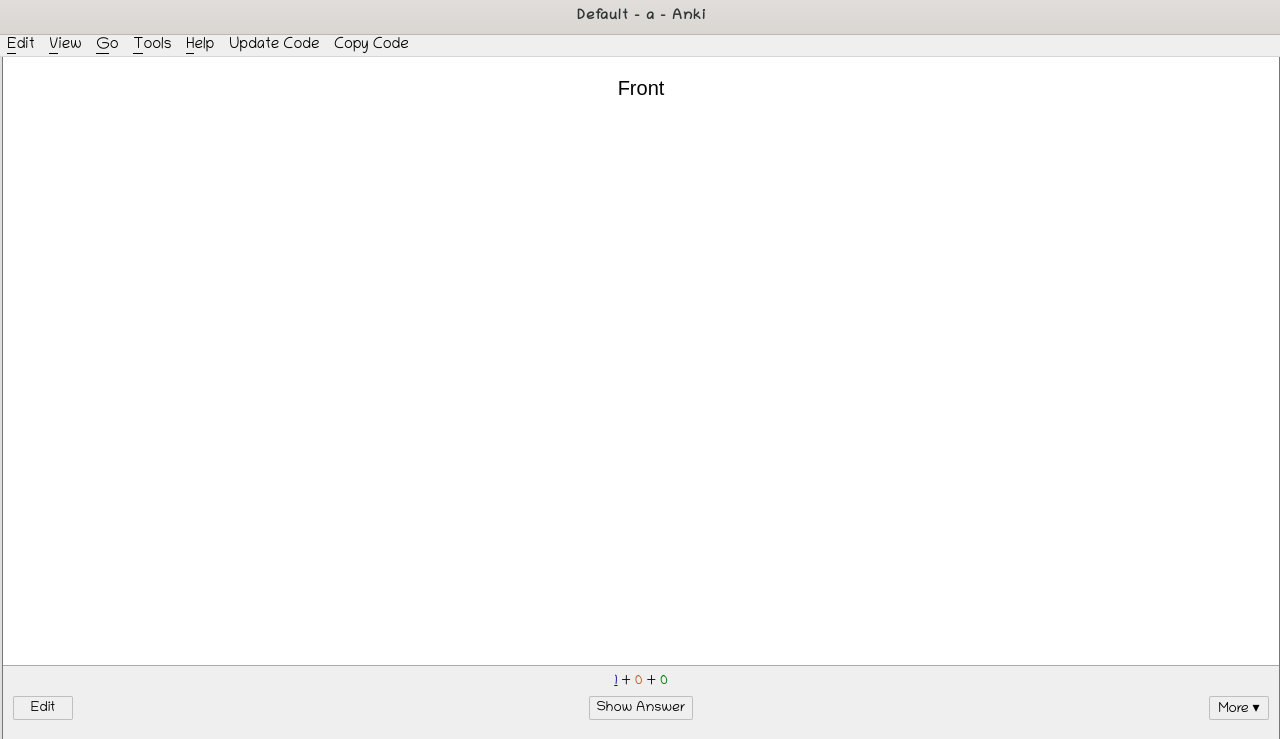
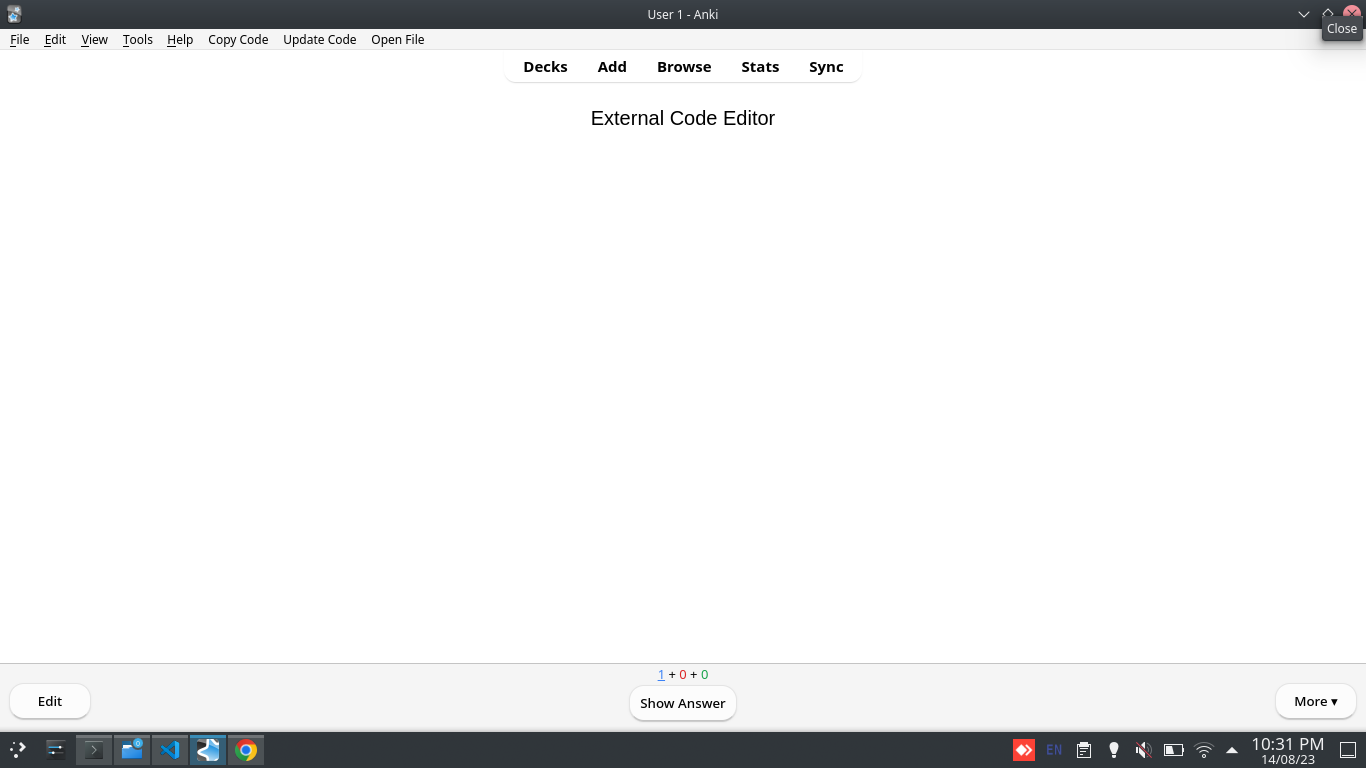
Updated for v2.1.65

Changed region(s): [[0.0, 0.8714, 1.0, 1.0], [0.0, 0.0, 1.0, 0.1867], [0.0, 0.8403, 0.0312, 0.8714]]

diff --git a/external_code_editor.py b/external_code_editor.py
@@ -1,0 +1,214 @@
+# Anki Addon
+# Copy code(Ctrl+C) from reviewer/previewer to source HTML file created in collection.media/output_path in config.
+# Edit source HTML file in external editor(like VSCode).
+# Update and run directly in Anki reviewer/previewer by reloading(Ctrl+S).
+# Author: Venkata Ramana P
+# <github.com/itsmepvr>
+# Date: 13-02-20
+# Modified: 29-08-20 Updated for Anki-2.1.30
+# Modified: 17-09-21 Updated to work in preview
+# Modified: 14-08-23 Updated for Anki-2.1.65
+# -*- mode: python ; coding: utf-8 -*-
+
+import os
+from pathlib import Path
+import subprocess
+import platform
+
+from anki.hooks import addHook
+from aqt import mw
+from aqt.gui_hooks import browser_will_show, webview_will_show_context_menu
+from aqt.qt import *
+from aqt.utils import tooltip
+from PyQt5 import *
+from anki import version as anki_version
+
+browser = None
+# config
+config = mw.addonManager.getConfig(__name__)
+
+
+# file name -> note_name.html
+def file_name(in_previewer):
+    if config['output_path']:
+        output_path = config['output_path']
+    else:
+        output_path = os.path.join(
+            mw.pm.base, mw.pm.name, 'collection.media', f'{mw.pm.name}.html')
+    return output_path
+
+
+# get notetype -> review/preview
+def model(in_previewer):
+    if in_previewer:
+        card = browser._previewer.card()
+    else:
+        card = mw.reviewer.card
+
+    note = mw.col.getNote(card.nid)
+    return mw.col.models.get(note.mid)
+
+
+# get state -> review/preview
+def state(in_previewer):
+    if in_previewer:
+        state = browser._previewer._state
+    else:
+        state = mw.reviewer.state
+    return state
+
+
+# Copy code from card in reviewer to file created in output path
+def copyCode(in_previewer=False):
+    source_code = ''
+    for i in model(in_previewer)['tmpls']:
+        _state = state(in_previewer)
+        if _state == 'question':
+            source_code = i['qfmt']
+        elif _state == 'answer':
+            source_code = i['afmt']
+        break
+
+    with open(file_name(in_previewer), 'w+', encoding='utf-8') as htmlFile:
+        htmlFile.write(source_code)
+
+    tooltip('Copying current note code..')
+    mw.col.reset()
+
+
+# Update Notetype code with code from src html file
+def updateCode(in_previewer=False):
+    fname = file_name(in_previewer)
+    if not os.path.isfile(fname):
+        tooltip('File not found. Copy code first to creat a file to update')
+        return
+
+    tooltip('Updating current note code..')
+    # Current path => /usr/python/bin
+    with open(fname, 'r', encoding='utf-8') as htmlFile:
+        source_code = htmlFile.read()
+
+    _model = model(in_previewer)
+    for i in _model['tmpls']:
+        _state = state(in_previewer)
+        if _state == 'question':
+            i['qfmt'] = source_code
+        elif _state == 'answer':
+            i['afmt'] = source_code
+
+    if anki_version.startswith('2.1.4'):
+        mw.col.models.save(_model)
+    else:
+        mw.col.models.update_dict(_model)
+    mw.col.reset()
+
+    if in_previewer:
+        browser._previewer._last_state = None
+        browser._previewer.render_card()
+    else:
+        _state = state(in_previewer)
+        if _state == 'question':
+            mw.moveToState('overview')
+            mw.moveToState('review')
+        elif _state == 'answer':
+            mw.moveToState('overview')
+            mw.moveToState('review')
+            mw.reviewer._showAnswer()
+
+
+# open the saved file in vscode, If not vscode open in default editor
+def open_file():
+    file_path = file_name(False)
+    if not os.path.isfile(file_path):
+        tooltip('File not found. Please copy code first to create file')
+        return
+    try:
+        if not config['editor']:
+            tooltip('Opening file in VSCode..')
+            # Try opening the file in VSCode
+            subprocess.run(["code", file_path])
+            print(f"File '{file_path}' opened in VSCode.")
+        else:
+            tooltip('Opening file in VSCode..')
+            # Try opening the file in VSCode
+            subprocess.run([config['editor'], file_path])
+            print(f"File '{file_path}' opened in {config['editor']}.")
+    except FileNotFoundError:
+        try:
+            # If VSCode is not found, try opening the file with the default editor
+            if platform.system() == "Darwin":
+                subprocess.run(["open", file_path])
+            elif platform.system() == "Windows":
+                subprocess.run(["start", file_path], shell=True)
+            else:
+                subprocess.run(["xdg-open", file_path])
+
+            print(f"File '{file_path}' opened with the default editor.")
+        except Exception as e:
+            print(f"An error occurred: {e}")
+            tooltip(f'Error: Could not open file. {e}')
+
+
+# Adding Copy Code button on menubar in Anki browser
+action2 = QAction("Copy Code", mw)
+action2.triggered.connect(copyCode)
+action2.setShortcut("Ctrl+c")
+mw.testmenu = action2
+mw.form.menubar.addAction(mw.testmenu)
+
+# Adding Update Code button on menubar in Anki browser
+action1 = QAction("Update Code", mw)
+action1.triggered.connect(updateCode)
+action1.setShortcut("Ctrl+s")
+mw.testmenu = action1
+mw.form.menubar.addAction(mw.testmenu)
+
+
+# Adding Update Code button on menubar in Anki browser
+action3 = QAction("Open File", mw)
+action3.triggered.connect(open_file)
+action3.setShortcut("Ctrl+o")
+mw.testmenu = action3
+mw.form.menubar.addAction(mw.testmenu)
+
+
+# show contect menu only in review
+def checkState(*args):
+    if mw.state == 'review':
+        action1.setVisible(True)
+        action2.setVisible(True)
+        action3.setVisible(True)
+    else:
+        action1.setVisible(False)
+        action2.setVisible(False)
+        action3.setVisible(False)
+
+
+addHook('beforeStateChange', checkState)
+
+
+# context menu for preview
+def add_context_menu_actions(webview, menu: QMenu):
+    if webview.title != 'previewer':
+        return
+
+    action = QAction("Copy Code", menu)
+    menu._foo_action = action
+    action.triggered.connect(lambda: copyCode(in_previewer=True))
+    menu.addAction(action)
+
+    action = QAction("Update Code", menu)
+    menu._foo_action = action
+    action.triggered.connect(lambda: updateCode(in_previewer=True))
+    menu.addAction(action)
+
+
+webview_will_show_context_menu.append(add_context_menu_actions)
+
+
+def set_browser_variable(_browser):
+    global browser
+    browser = _browser
+
+
+browser_will_show.append(set_browser_variable)

diff --git a/__init__.py b/__init__.py
@@ -1,16 +1,14 @@
-# Anki Addon 
-# Addon to enable developer options for users
-# Copy code(Ctrl+C) from reviewer to source HTML file created in collection.media.
+# Anki Addon
+# Copy code(Ctrl+C) from reviewer/previewer to source HTML file created in collection.media/output_path in config.
 # Edit source HTML file in external editor(like VSCode).
-# Run directly in Anki review browser by reloading(Ctrl+S).
-# just like normal browser(Chrome)
+# Update and run directly in Anki reviewer/previewer by reloading(Ctrl+S).
 # Author: Venkata Ramana P
-# <pvrreddy155@gmail.com> 
 # <github.com/itsmepvr>
 # Date: 13-02-20
 # Modified: 29-08-20 Updated for Anki-2.1.30
+# Modified: 17-09-21 Updated to work in preview
+# Modified: 14-08-23 Updated for Anki-2.1.65
 # -*- mode: python ; coding: utf-8 -*-
 
-
 # Call main function
-from . import updateCode
+from . import external_code_editor

diff --git a/README.md b/README.md
@@ -1,39 +1,51 @@
+# External Code Editor Addon
 
-# Copy, Edit & Run Notetype Code in Review from External Ediotr
-===============================================================
+=====================================
 
-** This is an addon for [Anki version 2.1](https://apps.ankiweb.net/). It provides Code editing and updating in review from external editor. Copy code from review to a html file, edit html file and run code in review just like a browser. Updates notetype code directly in review state. It might be useful when developing an add-on or creating complex card templates.**
+## Overview
+
+**External Code Editor** is an addon designed for [Anki version 2.1](https://apps.ankiweb.net/), offering advanced code editing and updating capabilities during card reviews. With this addon, you can seamlessly copy code from your review session to an HTML file, edit the HTML file using an external editor (such as VSCode), and run the code within the review just like a browser. This addon streamlines the process of updating code directly within the notetype, making it particularly valuable for add-on development or creating intricate card templates.
+
+## Features
+
+### Code Copy and Update
+
+-   **Copy Code (Ctrl+C):** Create an HTML file in the `collection.media` directory, copying the code from the current notetype to the HTML file.
+
+-   **Edit HTML File:** Edit the HTML file in an external editor (e.g., VSCode) to refine your code.
+
+-   **Update Code (Ctrl+S):** Transfer the updated code from the HTML file back to the notetype in the review, then reload the current card.
 
 ### Requirements
-* Supports Anki >= v2.1.20
 
-### Usage
-* Adds an item <b>Copy Code</b> & <b>Update Code</b> to the menubar in Review State.
-* Copy Code (Ctrl+C), creates a html file with profile name in collection.media and copy code of current notetype to html file. 
-* Edit html file in collection.media using any external editor(VSCode).
-* Update Code (Ctrl+S), updates code from html file to notetype in review and reloads the current card.
-* Use addon [AnkiWebView Inspector](https://ankiweb.net/shared/info/31746032) to inspect code for any errors and issues.
+-   Compatible with Anki version 2.1.20 or higher.
 
-### Screenshots
-<img src='./screenshots/screenshot.png' style='width:300px;height:300px' />
+## Usage
 
-To download and install the addon [visit here](https://ankiweb.net/shared/info/1732661953).
+1. **Menubar Integration:** Adds **Copy Code** and **Update Code** options to the menubar in the Review State, enhancing your editing experience.
 
-Works with Anki >= v2.1.20
+2. **Efficient Workflow:** Seamlessly edit and update code during your review process, ensuring smooth card template development.
 
-------
+3. **Code Inspection:** Utilize the [AnkiWebView Inspector](https://ankiweb.net/shared/info/31746032) addon to meticulously inspect your code for errors and issues.
+
+## Screenshots
+
+![Screenshot](./screenshots/screenshot.png)
+
+## Installation
+
+To download and install the addon, please visit the [AnkiWeb page](https://ankiweb.net/shared/info/1732661953).
+
+## Compatibility
+
+Works with Anki version 2.1.20 and above.
 
 ## Author
 
 **Venkata Ramana P**
 
-+ [https://itsmepvr.github.io](https://itsmepvr.github.io)
-+ [https://github.com/itsmepvr](https://github.com/itsmepvr)
-+ [https://linkedin.com/in/itsmepvr](https://linkedin.com/in/itsmepvr)
+-   [GitHub](https://github.com/itsmepvr)
 
+## Copyright and License
 
-------
-
-## Copyright and license
-
-Copyright 2019 Itsmepvr under [The MIT License (MIT)](LICENSE).
+© 2019 Itsmepvr. This project is licensed under [The MIT License (MIT)](LICENSE).

diff --git a/config.md b/config.md
@@ -1,0 +1,13 @@
+## Configuration
+
+### `output_path`
+
+-   **Description:** Specifies the path where the file will be saved.
+-   **Default:** Empty
+-   **Behavior:** If left empty, the file will be saved in the current profile's 'collection.media' directory.
+
+### `editor`
+
+-   **Description:** Specifies the preferred editor to open the file.
+-   **Default:** code
+-   **Behavior:** If left empty, the file will attempt to open in Visual Studio Code (VSCode). If VSCode is not installed, the file will be opened in the system's default editor.
